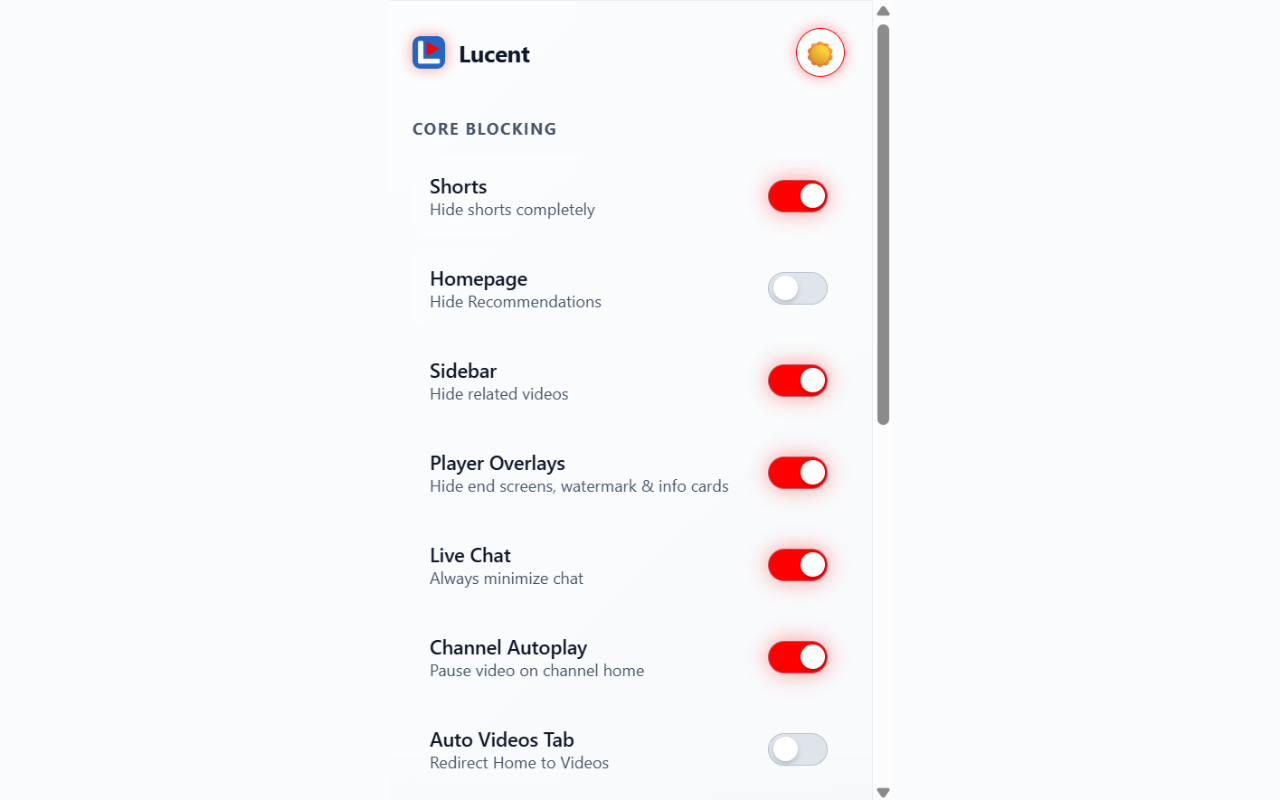
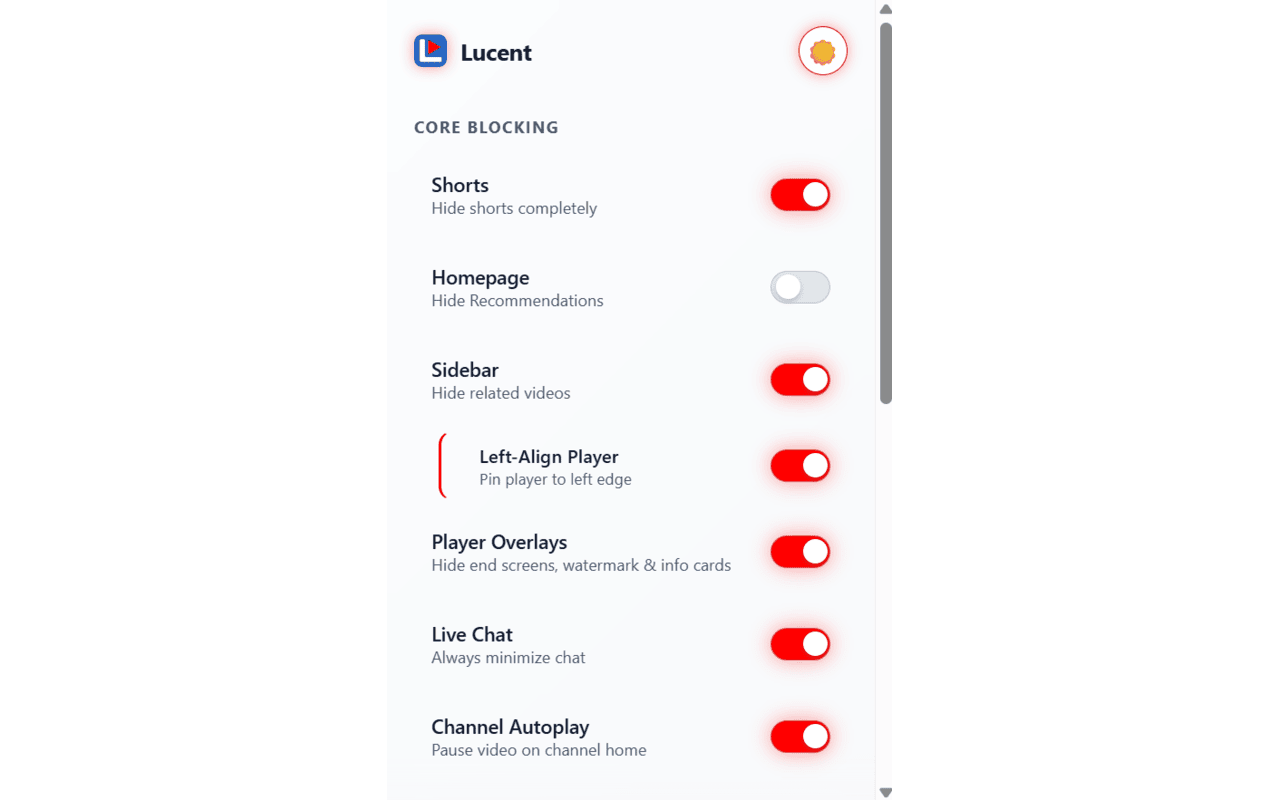
Update branding and grid layout optimizations

diff --git a/src/content.js b/src/content.js
@@ -123,10 +123,12 @@ function init() {
     // Also reset the redirect guard so the next channel navigation works.
     window.addEventListener('yt-navigate-finish', () => {
         _redirectInFlight = false;
+        gridAutoFlowSet = false; // allow re-priming per navigation
         setTimeout(() => {
             setupGridFixObserver();
             if (currentSettings.blockChannelAutoplay) preventChannelAutoplay();
             if (currentSettings.hideMetrics) hideSubscriberCountsJS();
+            if (currentSettings.blockShorts) hideShortsDOM();
         }, 800);
     });
 }
@@ -205,13 +207,16 @@ function buildBlockingCSS() {
         ytd-rich-section-renderer:has(ytd-reel-shelf-renderer),ytd-rich-section-renderer:has(ytd-rich-shelf-renderer[is-shorts]),ytd-rich-section-renderer:has(ytd-rich-shelf-renderer[is-shorts="true"]){
             display:none !important;height:0 !important;min-height:0 !important;margin:0 !important;padding:0 !important;
         }
-        #secondary,#secondary-inner,#related{
+        /* Watch-only layout tweaks so search pages keep their full width */
+        ytd-watch-flexy #secondary,
+        ytd-watch-flexy #secondary-inner,
+        ytd-watch-flexy #related{
             ${s.blockSidebar && s.centerPlayer
                 ? 'display:block !important;visibility:hidden !important;pointer-events:none !important;'
                 : `display:${s.blockSidebar ? 'none' : 'block'} !important;visibility:visible !important;`
             }
         }
-        ytd-watch-two-column-results-renderer{display:grid !important;grid-template-columns:${s.blockSidebar && !s.centerPlayer ? '1fr' : '1fr 390px'} !important}
+        ytd-watch-flexy ytd-watch-two-column-results-renderer{display:grid !important;grid-template-columns:${s.blockSidebar && !s.centerPlayer ? '1fr' : '1fr 390px'} !important}
         .ytp-watermark,.iv-branding{display:${s.blockPlayerOverlays ? 'none' : 'block'} !important}
         /* End screens and pause overlay — use all four properties to beat
            any specificity or inline-style override YouTube may apply */
@@ -403,12 +408,29 @@ function hideSubscriberCountsJS() {
  * row slots stay empty because subsequent items have absolute row numbers.
  * Fix: strip the inline grid placement so CSS auto-placement fills the gaps.
  */
+let gridFixScheduled = false;
+let gridAutoFlowSet = false;
 function fixGridLayout() {
-    const contents = document.querySelector('ytd-rich-grid-renderer #contents');
-    if (!contents) return;
-    contents.querySelectorAll('ytd-rich-item-renderer, ytd-rich-section-renderer').forEach(el => {
-        el.style.removeProperty('grid-row');
-        el.style.removeProperty('grid-column');
+    if (gridFixScheduled) return;
+    gridFixScheduled = true;
+
+    requestAnimationFrame(() => {
+        gridFixScheduled = false;
+        const contents = document.querySelector('ytd-rich-grid-renderer #contents');
+        if (!contents) return;
+
+        // Encourage the grid to backfill gaps left by hidden shelves/cards (set once per page)
+        if (!gridAutoFlowSet) {
+            contents.style.setProperty('grid-auto-flow', 'row dense', 'important');
+            gridAutoFlowSet = true;
+        }
+
+        contents.querySelectorAll(
+            'ytd-rich-item-renderer, ytd-rich-section-renderer, ytd-rich-grid-slim-media, ytd-rich-grid-media'
+        ).forEach(el => {
+            el.style.removeProperty('grid-row');
+            el.style.removeProperty('grid-column');
+        });
     });
 }
 
@@ -422,15 +444,18 @@ function setupGridFixObserver() {
     if (!contents) return;
 
     gridFixObserver = new MutationObserver((mutations) => {
-        const hasRelevantChange = mutations.some(m =>
-            m.addedNodes.length > 0 ||
-            (m.type === 'attributes' && (m.attributeName === 'style' || m.attributeName === 'class'))
-        );
-        if (hasRelevantChange) debouncedFixGrid();
+        const hasAdded = mutations.some(m => m.addedNodes && m.addedNodes.length > 0);
+        if (hasAdded) debouncedFixGrid();
     });
 
-    gridFixObserver.observe(contents, { childList: true, attributes: true, attributeFilter: ['style', 'class'] });
-    fixGridLayout();
+    gridFixObserver.observe(contents, { childList: true });
+
+    // Initial pass after first paint to avoid blocking thumbnail render
+    if ('requestIdleCallback' in window) {
+        requestIdleCallback(() => debouncedFixGrid(), { timeout: 400 });
+    } else {
+        setTimeout(() => debouncedFixGrid(), 120);
+    }
 }
 
 /**
@@ -460,13 +485,6 @@ function setupMutationObservers() {
         });
         if (shouldReblock) debouncedReapply();
     });
-
-    // Periodic checks — only JS-dependent features that CSS cannot handle alone
-    setInterval(() => {
-        if (currentSettings.blockChannelAutoplay) preventChannelAutoplay();
-        if (currentSettings.hideMetrics) hideSubscriberCountsJS();
-        if (currentSettings.blockShorts) hideShortsDOM();
-    }, 1500);
 
     // Wait for ytd-app then start the main observer
     const waitForApp = setInterval(() => {
